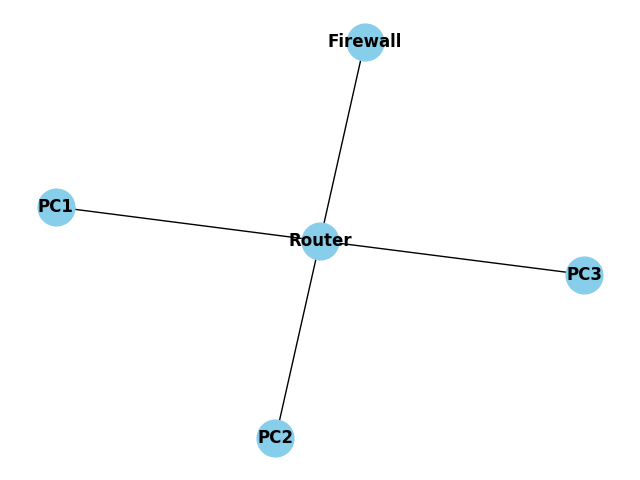
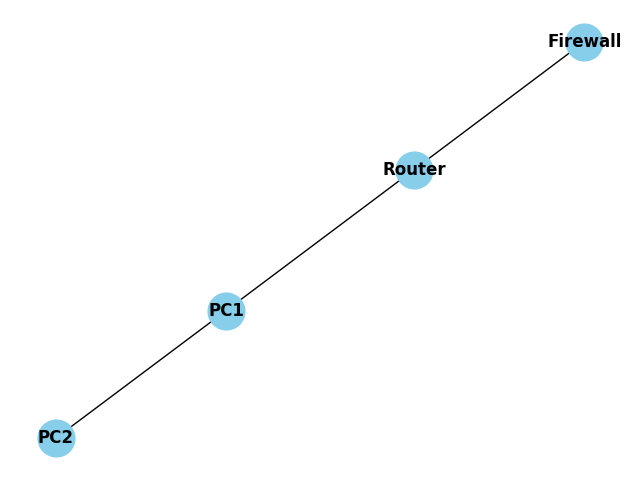
intenciones

diff --git a/red.py b/red.py
@@ -4,11 +4,11 @@ import matplotlib.pyplot as plt
 def create_network():
     G = nx.Graph()
 
-    devices = ["PC1", "PC2", "PC3", "Router", "Firewall"]
+    devices = ["PC1", "PC2", "Router", "Firewall"]
     G.add_nodes_from(devices)
 
     # Conectar dispositivos
-    G.add_edges_from([("PC1", "Router"), ("PC2", "Router"), ("PC3", "Router"), ("Router", "Firewall")])
+    G.add_edges_from([("PC1", "Router"), ("PC2", "Router"), ("Router", "Firewall")])
 
     # Se asocia el atributo service a cada dispositivo para ver disponibilidad
     nx.set_node_attributes(G, {device: False for device in devices}, "service")
@@ -46,12 +46,29 @@ def desactivate_service(graph, device):
     else:
         print(f"{device} no es un dispositivo válido en la red.")
 
+def route_nodes(graph, node1, node2):
+    if node1 in graph.nodes and node2 in graph.nodes:
+        if not graph.has_edge(node1, node2):
+            graph.add_edges_from([(node1, node2)])
+            print(f"Conexión creada entre {node1} y {node2}.")
+        else:
+            print(f"Ya existe una conexión entre {node1} y {node2}.")
+    else:
+        print(f"Uno o ambos nodos no son válidos en el grafo.")
+
+def remove_nodes(graph, node1, node2):
+    if node1 in graph.nodes and node2 in graph.nodes:
+        if graph.has_edge(node1, node2):
+            graph.remove_edge(node1, node2)
+            print(f"Conexión entre {node1} y {node2} eliminada.")
+        else:
+            print(f"No existe una conexión entre {node1} y {node2}.")
+    else:
+        print(f"Uno o ambos nodos no son válidos en el grafo.")
+
 def main():
     # Crear la red
     network = create_network()
-
-    # Visualizar la red (opcional)
-    visualize_network(network)
 
     # Hacer ping entre dispositivos específicos
     ping_device(network, "PC1", "Router")
@@ -62,6 +79,12 @@ def main():
     ping_device(network, "PC1", "Router")
     desactivate_service(network, "PC1")
     ping_device(network, "PC1", "Router")
+
+    route_nodes(network, "PC1", "PC2")
+    
+    remove_nodes(network, "PC2", "Router")
+
+    visualize_network(network)
 
 if __name__ == "__main__":
     main()

diff --git a/index.php b/index.php
@@ -72,8 +72,20 @@
   </div>
       <script>
           function calcularResultado() {
-              var valorEntrada = document.getElementById("entrada").value;
-              document.getElementById("salida").textContent = valorEntrada;
+            var valorEntrada = document.getElementById("entrada").value;
+
+            fetch('descripcion.py?text=' + encodeURIComponent(valorEntrada))
+                .then(response => response.text())
+                .then(data => {
+                  console.log('Respuesta del servidor:', data);
+
+                  
+                  return JSON.parse(data);
+                })
+                .then(parsedData => {
+                  document.getElementById("salida").textContent = parsedData.partes.join(' ');
+                })
+                .catch(error => console.error('Error:', error));
           }
       </script>
   <?php

diff --git a/descripcion.py b/descripcion.py
@@ -1,9 +1,13 @@
+#!/usr/bin/env python3
+import json
+import cgi
 from bdd.bdd import traduccion
 import spacy
 
 nlp = spacy.load("es_core_news_sm")
 
-text = ("queiero A habilitar B")
+params = cgi.FieldStorage()
+text = params.getvalue('text')
 
 #Revisa verbos de la frase
 doc = nlp(text)
@@ -13,5 +17,10 @@ verbo = [token.lemma_ for token in doc if token.pos_ == "VERB"][0]
 resultado = traduccion(verbo)
 partes = resultado.split(";")
 
-for parte in partes:
-    print(parte)
+response_data = {"verbo": verbo, "partes": partes}
+
+# Imprime el resultado como JSON
+print("Content-Type: application/json") 
+print("Access-Control-Allow-Origin: *")
+print()
+print(json.dumps(response_data))

diff --git a/bdd/bd.php b/bdd/bd.php
@@ -5,9 +5,14 @@ $usuario = "root";
 $contrasena = "";
 
 try {
-    $conexion = new PDO("mysql:host=$host;dbname=$bd",$usuario,$contrasena ); 
-    if($conexion){} 
+    $conexion = new PDO("mysql:host=$host;dbname=$bd", $usuario, $contrasena);
+
+    $conexion->setAttribute(PDO::ATTR_ERRMODE, PDO::ERRMODE_EXCEPTION);
+
+    $conexion->exec("SET CHARACTER SET utf8");
+
+    return $conexion; 
 } catch (Exception $ex) {
-    echo $ex->getMessage();  
+    echo "Error de conexión a la base de datos: " . $ex->getMessage();  
 }
 ?>

diff --git a/busqueda.php b/busqueda.php
@@ -1,0 +1,16 @@
+<?php
+include('bdd/bd.php');
+
+$valorEntrada = $_GET['valor'];
+
+$consulta = "SELECT cisco FROM intenciones WHERE intencion = :valor";
+$statement = $conexion->prepare($consulta);
+$statement->bindParam(':valor', $valorEntrada);
+$statement->execute();
+
+// Obtiene el resultado
+$resultado = $statement->fetch(PDO::FETCH_ASSOC);
+
+// Devuelve el resultado como JSON
+echo json_encode(['resultado' => $resultado]);
+?>
